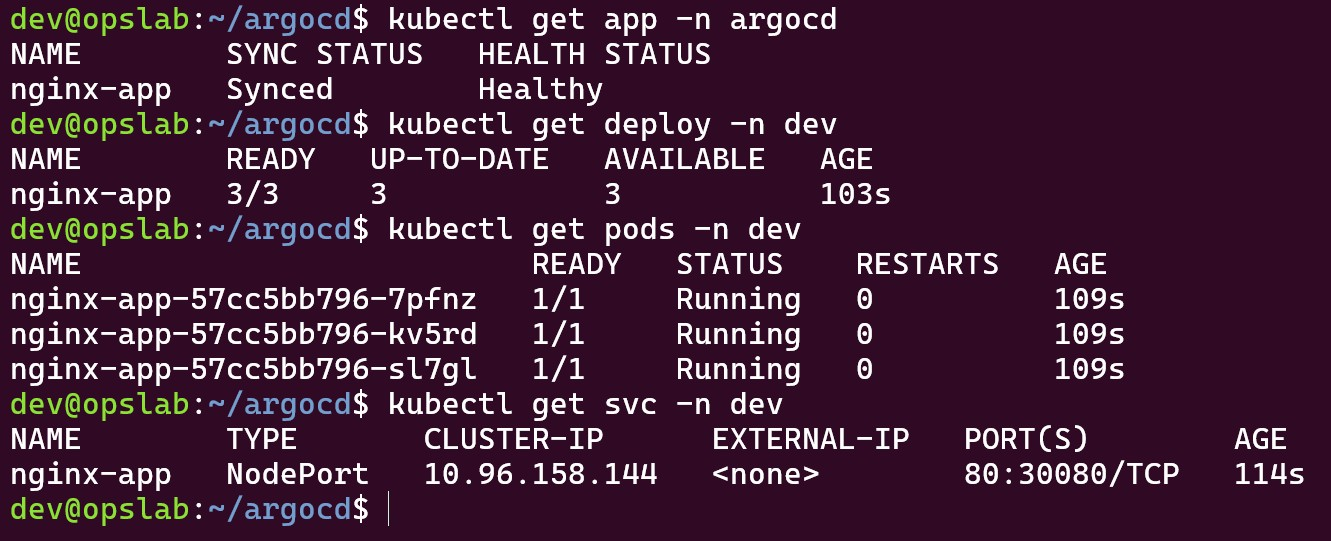
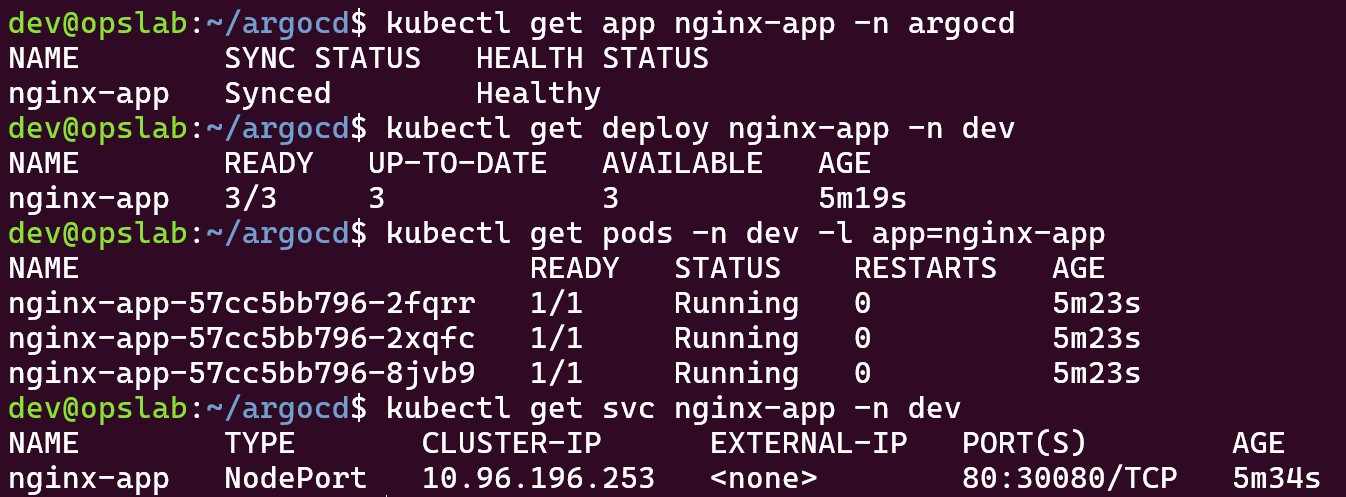
update gitops configuration

Changed region(s): [[0.0, 0.0, 0.9857, 0.996]]

diff --git a/config/gitops/README.md b/config/gitops/README.md
@@ -49,11 +49,12 @@ kubectl get svc argocd-server -n argocd
 kubectl apply -f gitops/apps/nginx-app.yaml
 
 # verify nginx demo application
-kubectl get applications -n argocd
+kubectl get application nginx-app -n argocd
 
-# 3. Verify Deployed Pods & Service in argocd namespace
-kubectl get pods -n dev
-kubectl get svc -n dev
+# 3. Verify deployed pods & service in dev namespace
+kubectl get deployment nginx-app -n dev
+kubectl get pods -n dev -l app=nginx-app
+kubectl get svc nginx-app -n dev
 ```
 ![nginx-pods](/assets/nginx-pods.jpg)
 ![argocd-deploy](/assets/argocd-deploy.jpg)
@@ -71,8 +72,8 @@ curl -I http://localhost:30080
 kubectl delete -f gitops/apps/nginx-app.yaml
 
 # Verify pods & service are terminated
-kubectl get pods -n dev
-kubectl get svc -n dev
+kubectl get pods -n dev -l app=nginx-app
+kubectl get svc nginx-app -n dev
 ```
 
 
